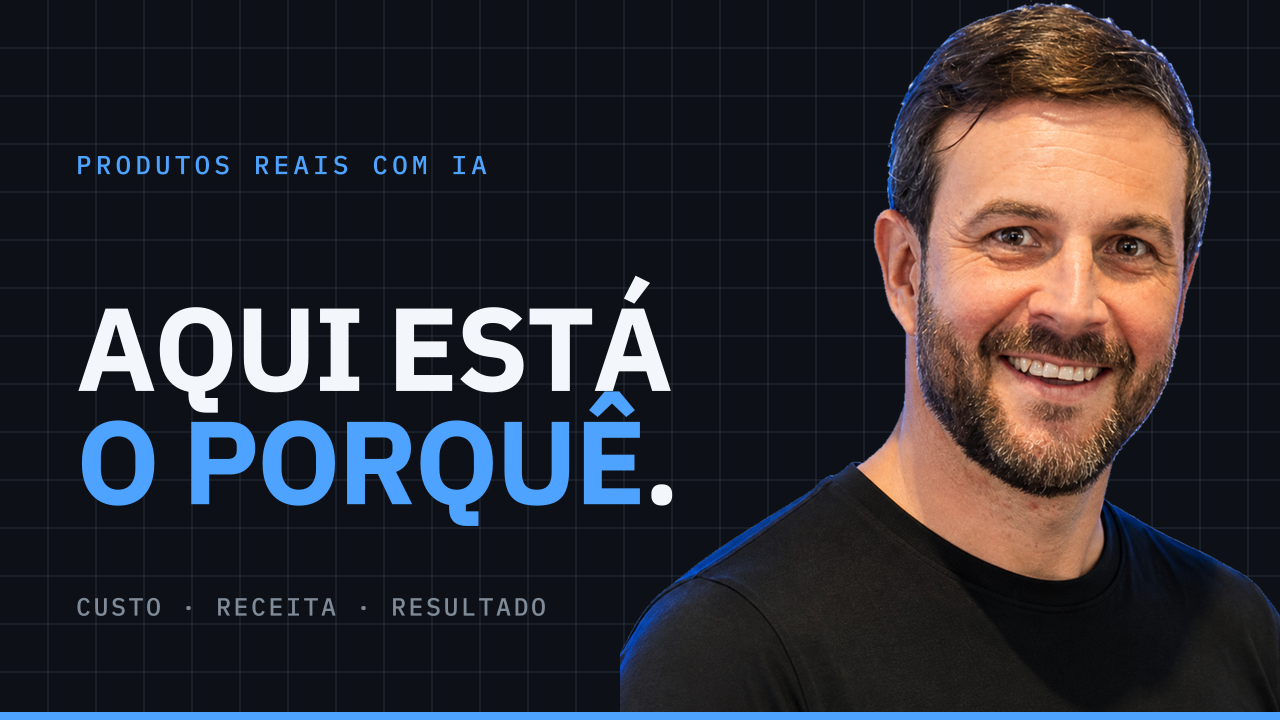
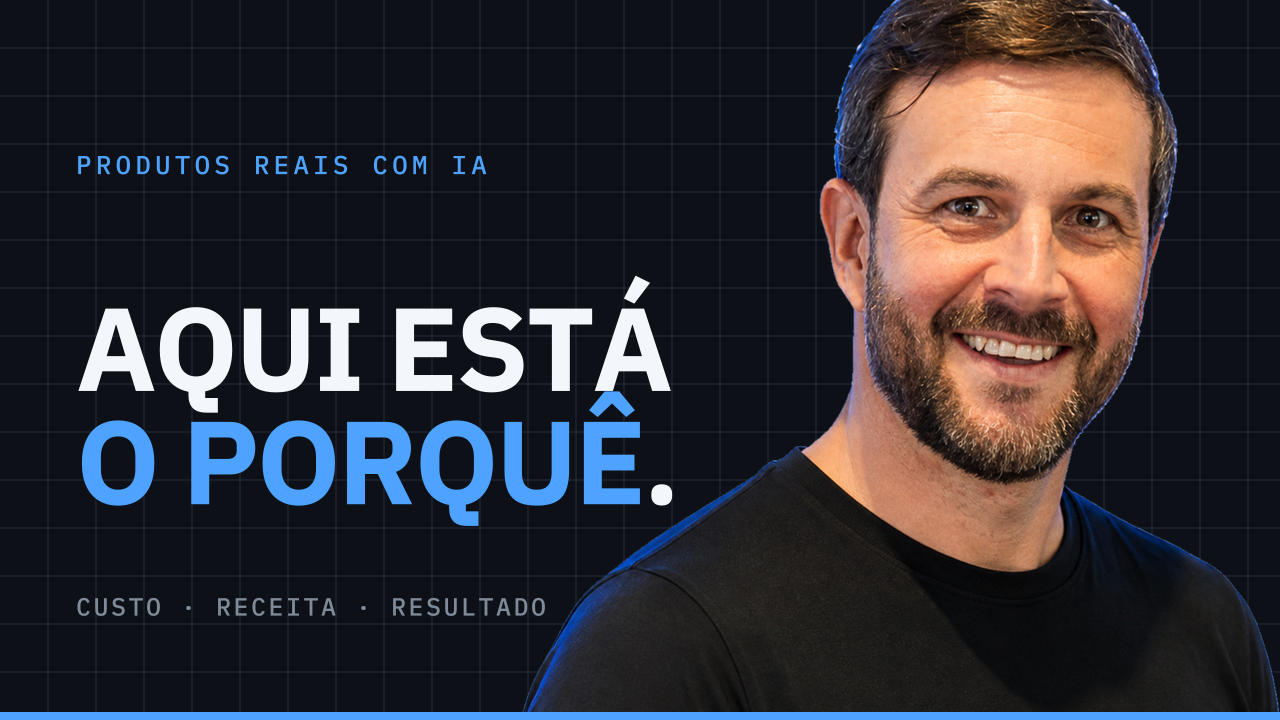
fix: refine founder thumbnail framing

diff --git a/brand-assets/exports/day-1/05-youtube/versions/v2-approved-founder-cutouts/README.md b/brand-assets/exports/day-1/05-youtube/versions/v2-approved-founder-cutouts/README.md
@@ -19,7 +19,7 @@ Este pack não substitui os exports publicados em `day-1/05-youtube/` nem sobres
 
 - `#0D1117` e grid estrutural de 48px, sem redução de opacidade;
 - headline à esquerda, retrato ampliado à direita;
-- retratos frontais preenchem a altura da faixa; `present-left` usa faixa ampliada de 760px para preservar o gesto completo;
+- retratos frontais usam faixa de 760px; `present-left` usa faixa de 700px deslocada à direita para preservar o gesto completo sem cobrir a headline;
 - headline, copy, safe zone e barra inferior do Reference Pattern;
 - IBM Plex Sans para headline e IBM Plex Mono para kicker/subline;
 - foto completa, sem fade, sombra, escurecimento ou recorte de gesto;

diff --git a/brand-assets/thumbnails/versions/v2-approved-founder-cutouts/README.md b/brand-assets/thumbnails/versions/v2-approved-founder-cutouts/README.md
@@ -19,7 +19,7 @@ Este pack não substitui os exports publicados em `day-1/05-youtube/` nem sobres
 
 - `#0D1117` e grid estrutural de 48px, sem redução de opacidade;
 - headline à esquerda, retrato ampliado à direita;
-- retratos frontais preenchem a altura da faixa; `present-left` usa faixa ampliada de 760px para preservar o gesto completo;
+- retratos frontais usam faixa de 760px; `present-left` usa faixa de 700px deslocada à direita para preservar o gesto completo sem cobrir a headline;
 - headline, copy, safe zone e barra inferior do Reference Pattern;
 - IBM Plex Sans para headline e IBM Plex Mono para kicker/subline;
 - foto completa, sem fade, sombra, escurecimento ou recorte de gesto;
